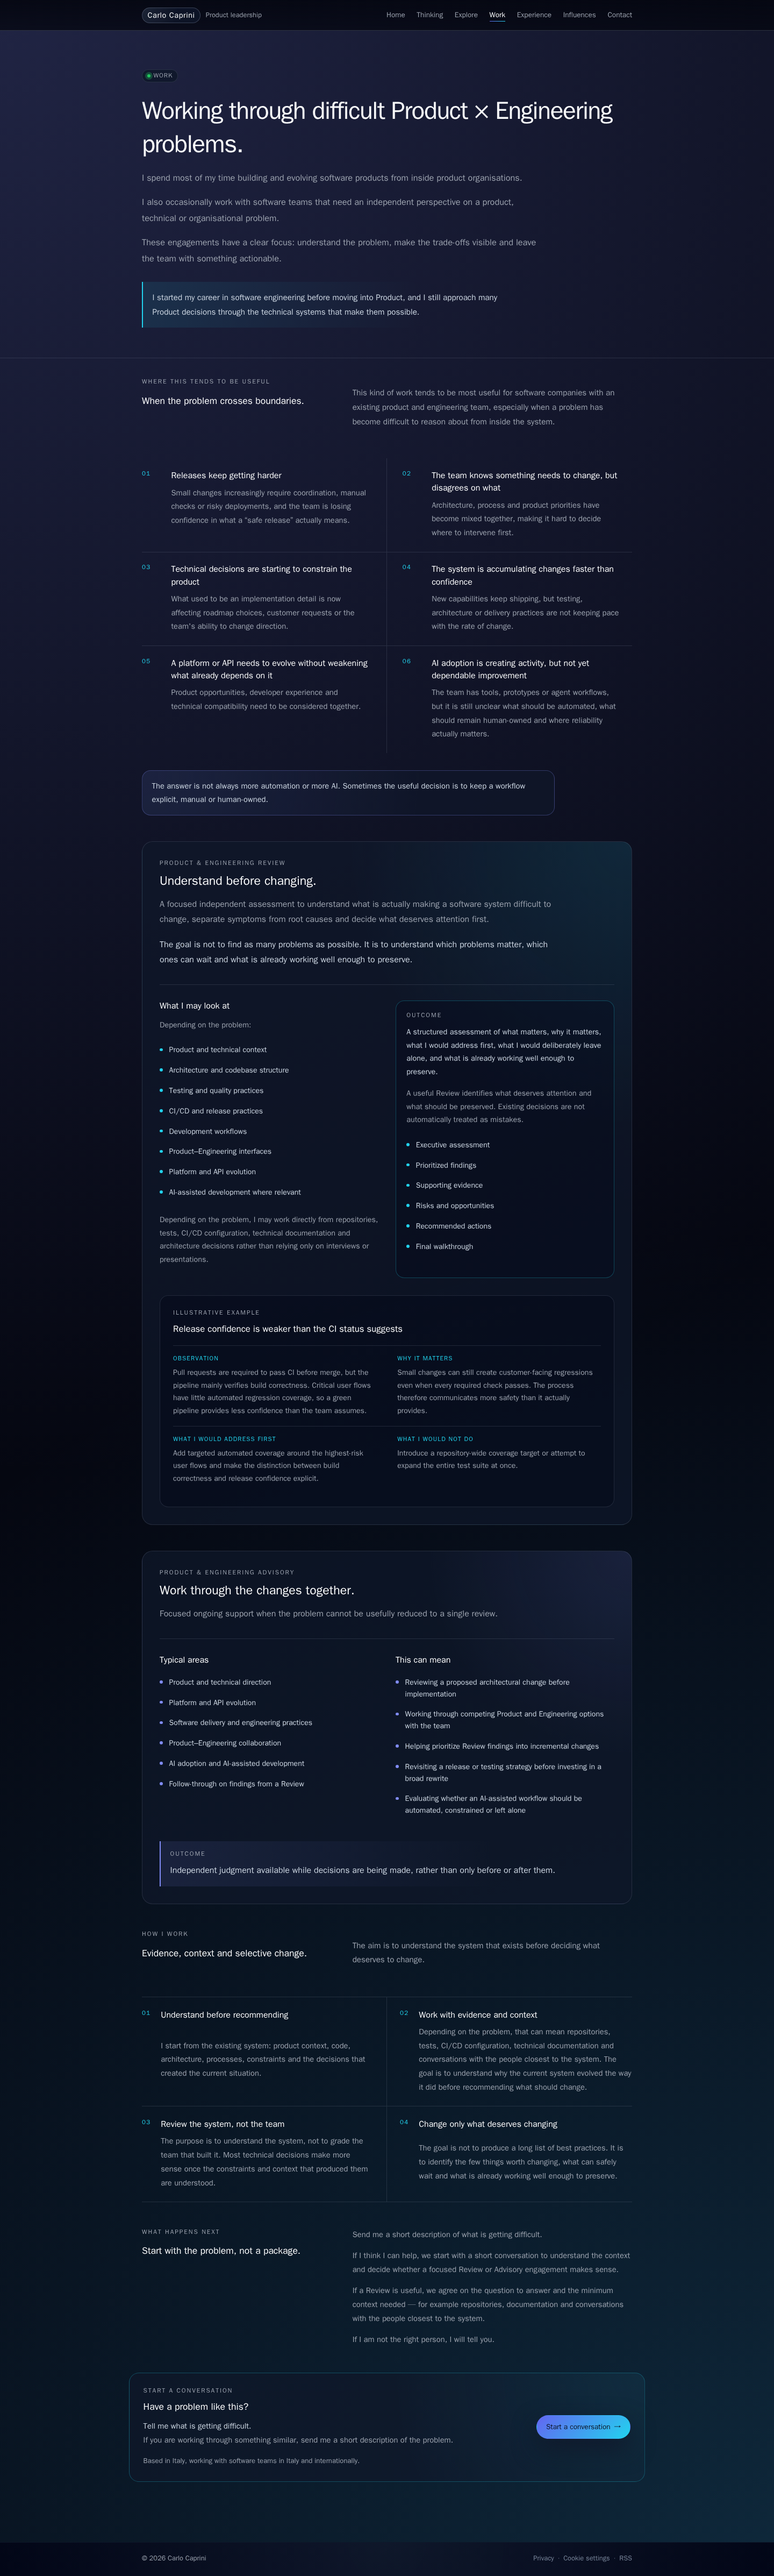
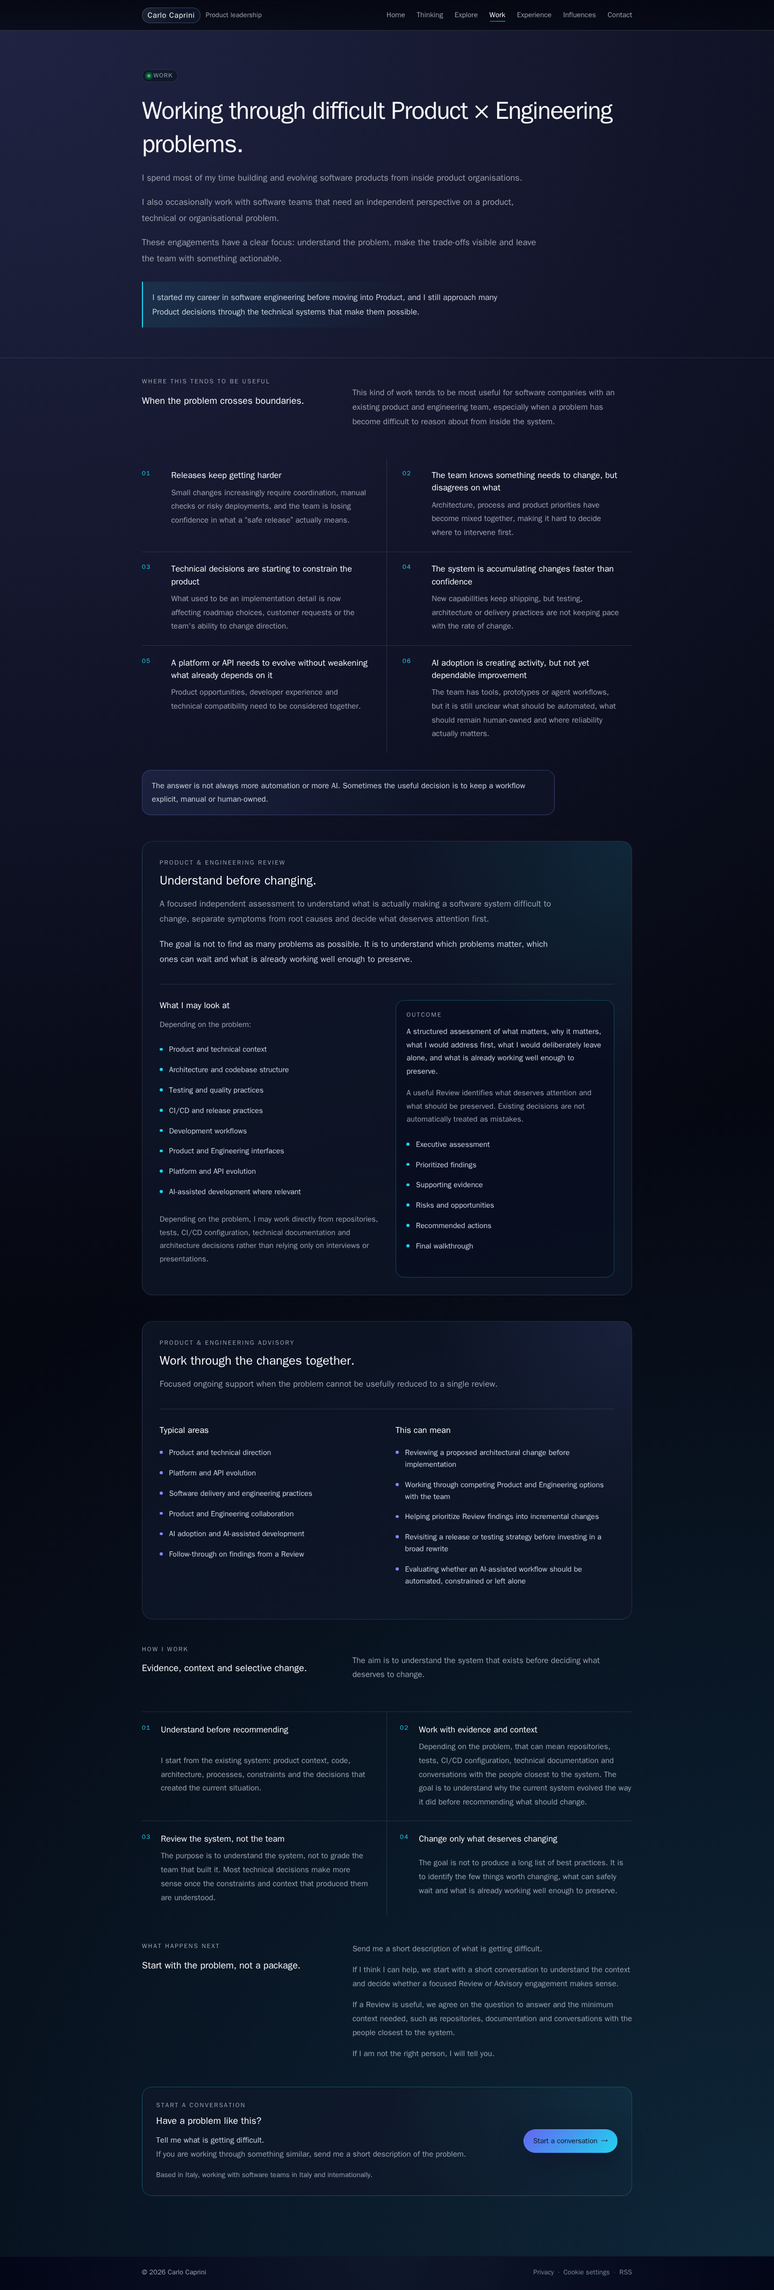
fix: refine work spacing across smaller screens

diff --git a/_includes/styles/responsive.css b/_includes/styles/responsive.css
@@ -72,8 +72,7 @@
   }
 
   .work-situation-list,
-  .work-principle-list,
-  .work-finding dl {
+  .work-principle-list {
     grid-template-columns: minmax(0, 1fr);
   }
 
@@ -98,11 +97,11 @@
   .work-principle-list > li:nth-child(even) {
     padding: 1.2rem 0;
     border-right: 0;
+    border-bottom: 1px solid var(--color-line);
   }
 
-  .work-finding dl > div,
-  .work-finding dl > div:nth-child(even) {
-    padding: 1rem 0;
+  .work-principle-list > li:last-child {
+    border-bottom: 0;
   }
 
   .work-contact-panel .button-primary {
@@ -378,6 +377,52 @@
 }
 
 @media (max-width: 640px) {
+  .work-section-intro {
+    gap: 1rem;
+    margin-bottom: 1.6rem;
+  }
+
+  .work-credibility,
+  .work-boundary-note {
+    padding: 0.95rem 1rem;
+  }
+
+  .work-situation-list > li,
+  .work-situation-list > li:nth-child(odd),
+  .work-situation-list > li:nth-child(even) {
+    grid-template-columns: 2rem minmax(0, 1fr);
+    gap: 0.7rem;
+  }
+
+  .work-engagement {
+    padding: 1.25rem 1.1rem;
+  }
+
+  .work-engagement-header h2 {
+    font-size: 1.3rem;
+  }
+
+  .work-engagement-details {
+    gap: 1.35rem;
+    margin-top: 1.5rem;
+    padding-top: 1.35rem;
+  }
+
+  .work-outcome {
+    padding: 1rem;
+  }
+
+  .work-contact-panel {
+    gap: 1.25rem;
+    padding: 1.25rem 1.1rem;
+  }
+
+  .work-contact-panel .button-primary {
+    width: 100%;
+    justify-content: center;
+    white-space: normal;
+  }
+
   .series-visuals-grid {
     display: flex;
     gap: 0.9rem;

diff --git a/tests/browser/responsive.spec.js b/tests/browser/responsive.spec.js
@@ -48,6 +48,20 @@ test("Work keeps its recognition and evidence layers readable across breakpoints
   );
 
   expect(columns).toBe(testInfo.project.name === "desktop-chromium" ? 2 : 1);
-  await expect(page.locator(".work-finding")).toBeVisible();
+  await expect(page.locator(".work-outcome")).toBeVisible();
   await expect(page.locator(".work-contact-panel .button-primary")).toBeVisible();
+
+  if (testInfo.project.name !== "desktop-chromium") {
+    const viewportWidth = page.viewportSize().width;
+    const surfaces = page.locator(".work-engagement, .work-boundary-note, .work-contact-panel");
+    const boxes = await surfaces.evaluateAll((elements) => elements.map((element) => {
+      const box = element.getBoundingClientRect();
+      return { left: box.left, right: box.right };
+    }));
+
+    for (const box of boxes) {
+      expect(box.left).toBeGreaterThanOrEqual(16);
+      expect(box.right).toBeLessThanOrEqual(viewportWidth - 16);
+    }
+  }
 });
